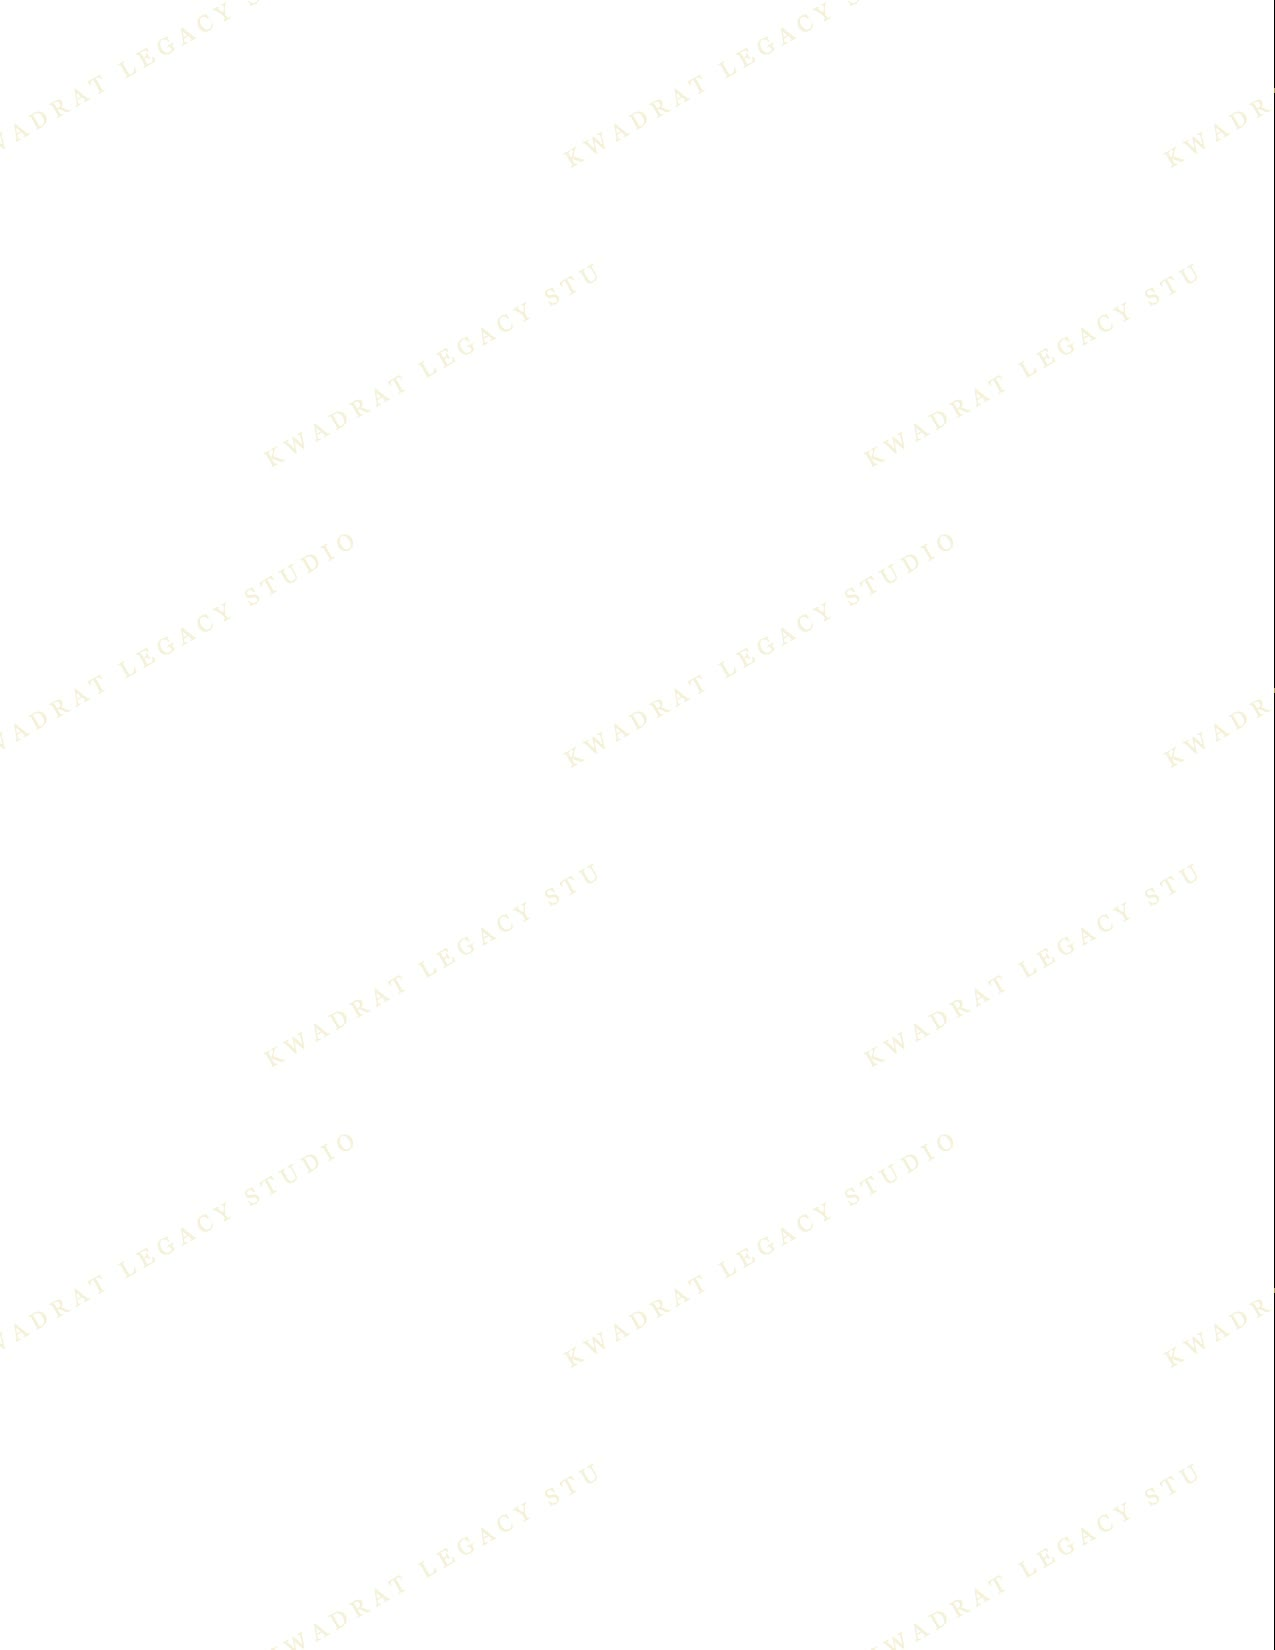
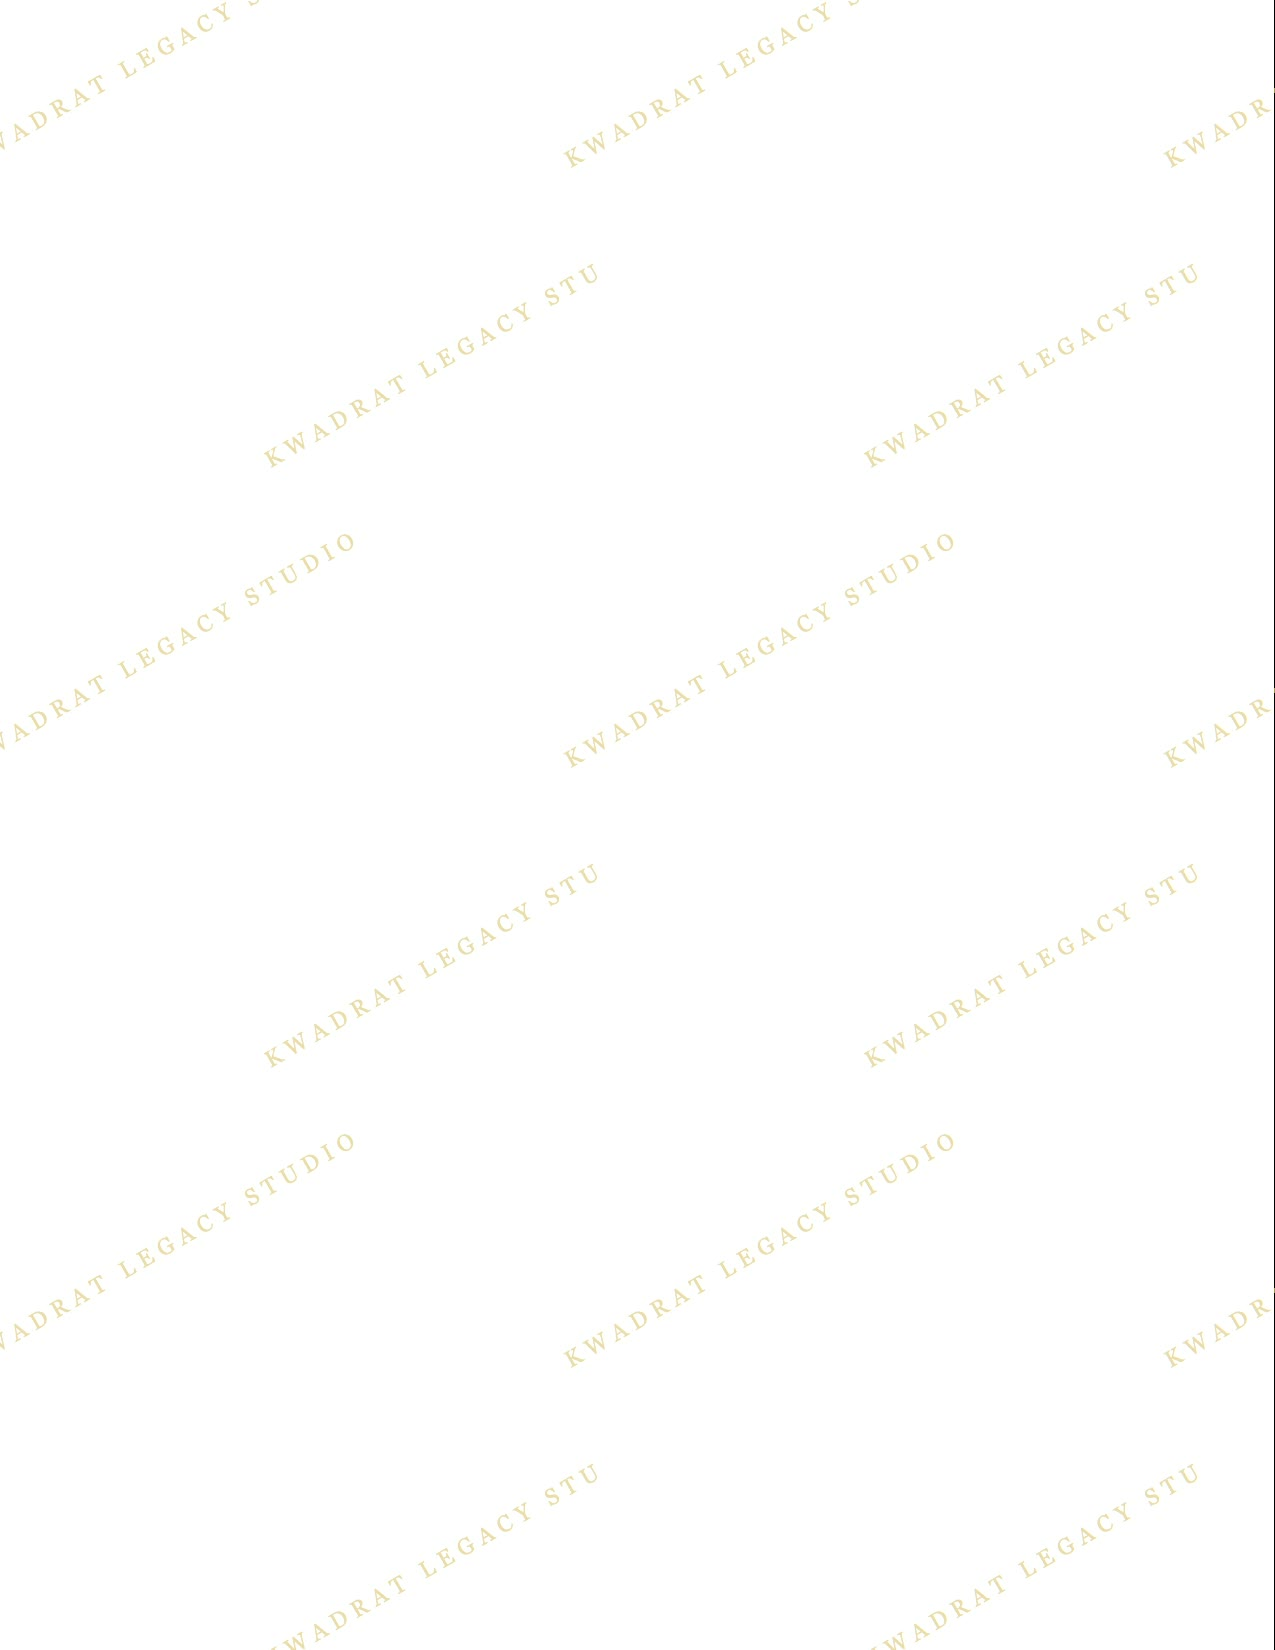
A blank leaf should look blank, not broken
Empty pages in the sefarim now carry a heavier watermark — 0.34 against
the usual 0.15 — so an empty leaf beside a printed one reads as a page
rather than as a picture that failed to arrive. Nine leaves across six
books, found by measuring the darkest ink on each page.

The viewer: a link opens its work even when the viewer is already up,
and the loupe no longer lays out a seventy-megapixel sheet on the press.

Claude-Session: https://claude.ai/code/session_01FPfHra7ZUNPpDGSLWyzMum

diff --git a/assets/js/main.js b/assets/js/main.js
@@ -607,12 +607,12 @@
 
   /* One lay-out at the end of a gesture, not one per step. */
   var settleSheet = 0;
-  function settleScale() {
+  function settleScale(after) {
     clearTimeout(settleSheet);
     settleSheet = setTimeout(function () {
       if (Math.abs(scale - laidAt) < 0.0005) return;
       apply(false);
-    }, 140);
+    }, after || 140);
   }
 
   function fit(animate) { scale = MIN; tx = ty = 0; apply(animate !== false); }
@@ -629,15 +629,18 @@
     ty = cy - (cy - ty) * k;
     scale = next;
     rein();
-    /* A press of the loupe is one step and lays out at once. A wheel or
-       a pinch arrives dozens of times a second: those scale the layer
-       and lay out when the hand stops. */
-    if (animate) {
-      apply(true);
-    } else {
-      apply(false, true);
-      settleScale();
-    }
+    /* However it was asked for — a hand on the glass or a press of the
+       loupe — the sheet is stretched on the layer first, which the
+       graphics card does for nothing, and laid out properly once it has
+       come to rest.
+
+       The press used to lay out at once, on the reasoning that one step
+       deserves one lay-out. On a seventy-megapixel scroll that step was
+       measured at 704ms of the reader's waiting, which is not a step.
+       The settle waits out the transition before it redraws, so the
+       sharpening is never seen to happen. */
+    apply(animate, true);
+    settleScale(animate ? 1180 : 140);
   }
 
   zoomIn .addEventListener('click', function () { magnify(scale * 1.6, undefined, undefined, true); });
@@ -753,6 +756,10 @@
       list = works[room] || [];
       for (i = 0; i < list.length; i++) {
         if (list[i].slug === slug) {
+          /* Already the work on screen — someone following a link to
+             the very thing they are looking at. Leave it where they
+             have it rather than snapping back to the first page. */
+          if (!vitrine.hidden && items[at] && items[at].slug === slug) return true;
           if (room !== group) paint(room);
           show(i);
           return true;
@@ -1447,7 +1454,10 @@
       try { slug = decodeURIComponent(slug); } catch (e) {}
       name = name.slice(0, slash);
       if (ROOMS.indexOf(name) !== -1) enter(name, true);
-      if (vitrine.hidden) openBySlug(slug);
+      /* Whether or not the viewer is already up. It used to open only
+         from a closed one, so a link to a second scroll, followed while
+         the first was open, did nothing at all. */
+      openBySlug(slug);
       return;
     }
     if (ROOMS.indexOf(name) !== -1) enter(name, true);

diff --git a/index.html b/index.html
@@ -574,7 +574,7 @@
 <script>window.KWADRAT_FORM_KEY = "69ea5e00-126e-4839-b109-7b617c1cde12";</script>
 <script src="assets/js/i18n.js?v=387f686c"></script>
 <script src="assets/works/works.js?v=b9d4e5a2"></script>
-<script src="assets/js/main.js?v=ec610b4d"></script>
+<script src="assets/js/main.js?v=aefebf13"></script>
 
 <!-- Cloudflare Web Analytics: no cookies, no individual tracking, so no
      consent banner is needed. -->

diff --git a/he/index.html b/he/index.html
@@ -571,7 +571,7 @@
 <script>window.KWADRAT_ROOT = "/";</script>
 <script src="/assets/js/i18n.js?v=387f686c"></script>
 <script src="/assets/works/works.js?v=b9d4e5a2"></script>
-<script src="/assets/js/main.js?v=ec610b4d"></script>
+<script src="/assets/js/main.js?v=aefebf13"></script>
 
 <!-- Cloudflare Web Analytics: no cookies, no individual tracking, so no
      consent banner is needed. -->

diff --git a/yi/index.html b/yi/index.html
@@ -571,7 +571,7 @@
 <script>window.KWADRAT_ROOT = "/";</script>
 <script src="/assets/js/i18n.js?v=387f686c"></script>
 <script src="/assets/works/works.js?v=b9d4e5a2"></script>
-<script src="/assets/js/main.js?v=ec610b4d"></script>
+<script src="/assets/js/main.js?v=aefebf13"></script>
 
 <!-- Cloudflare Web Analytics: no cookies, no individual tracking, so no
      consent banner is needed. -->
